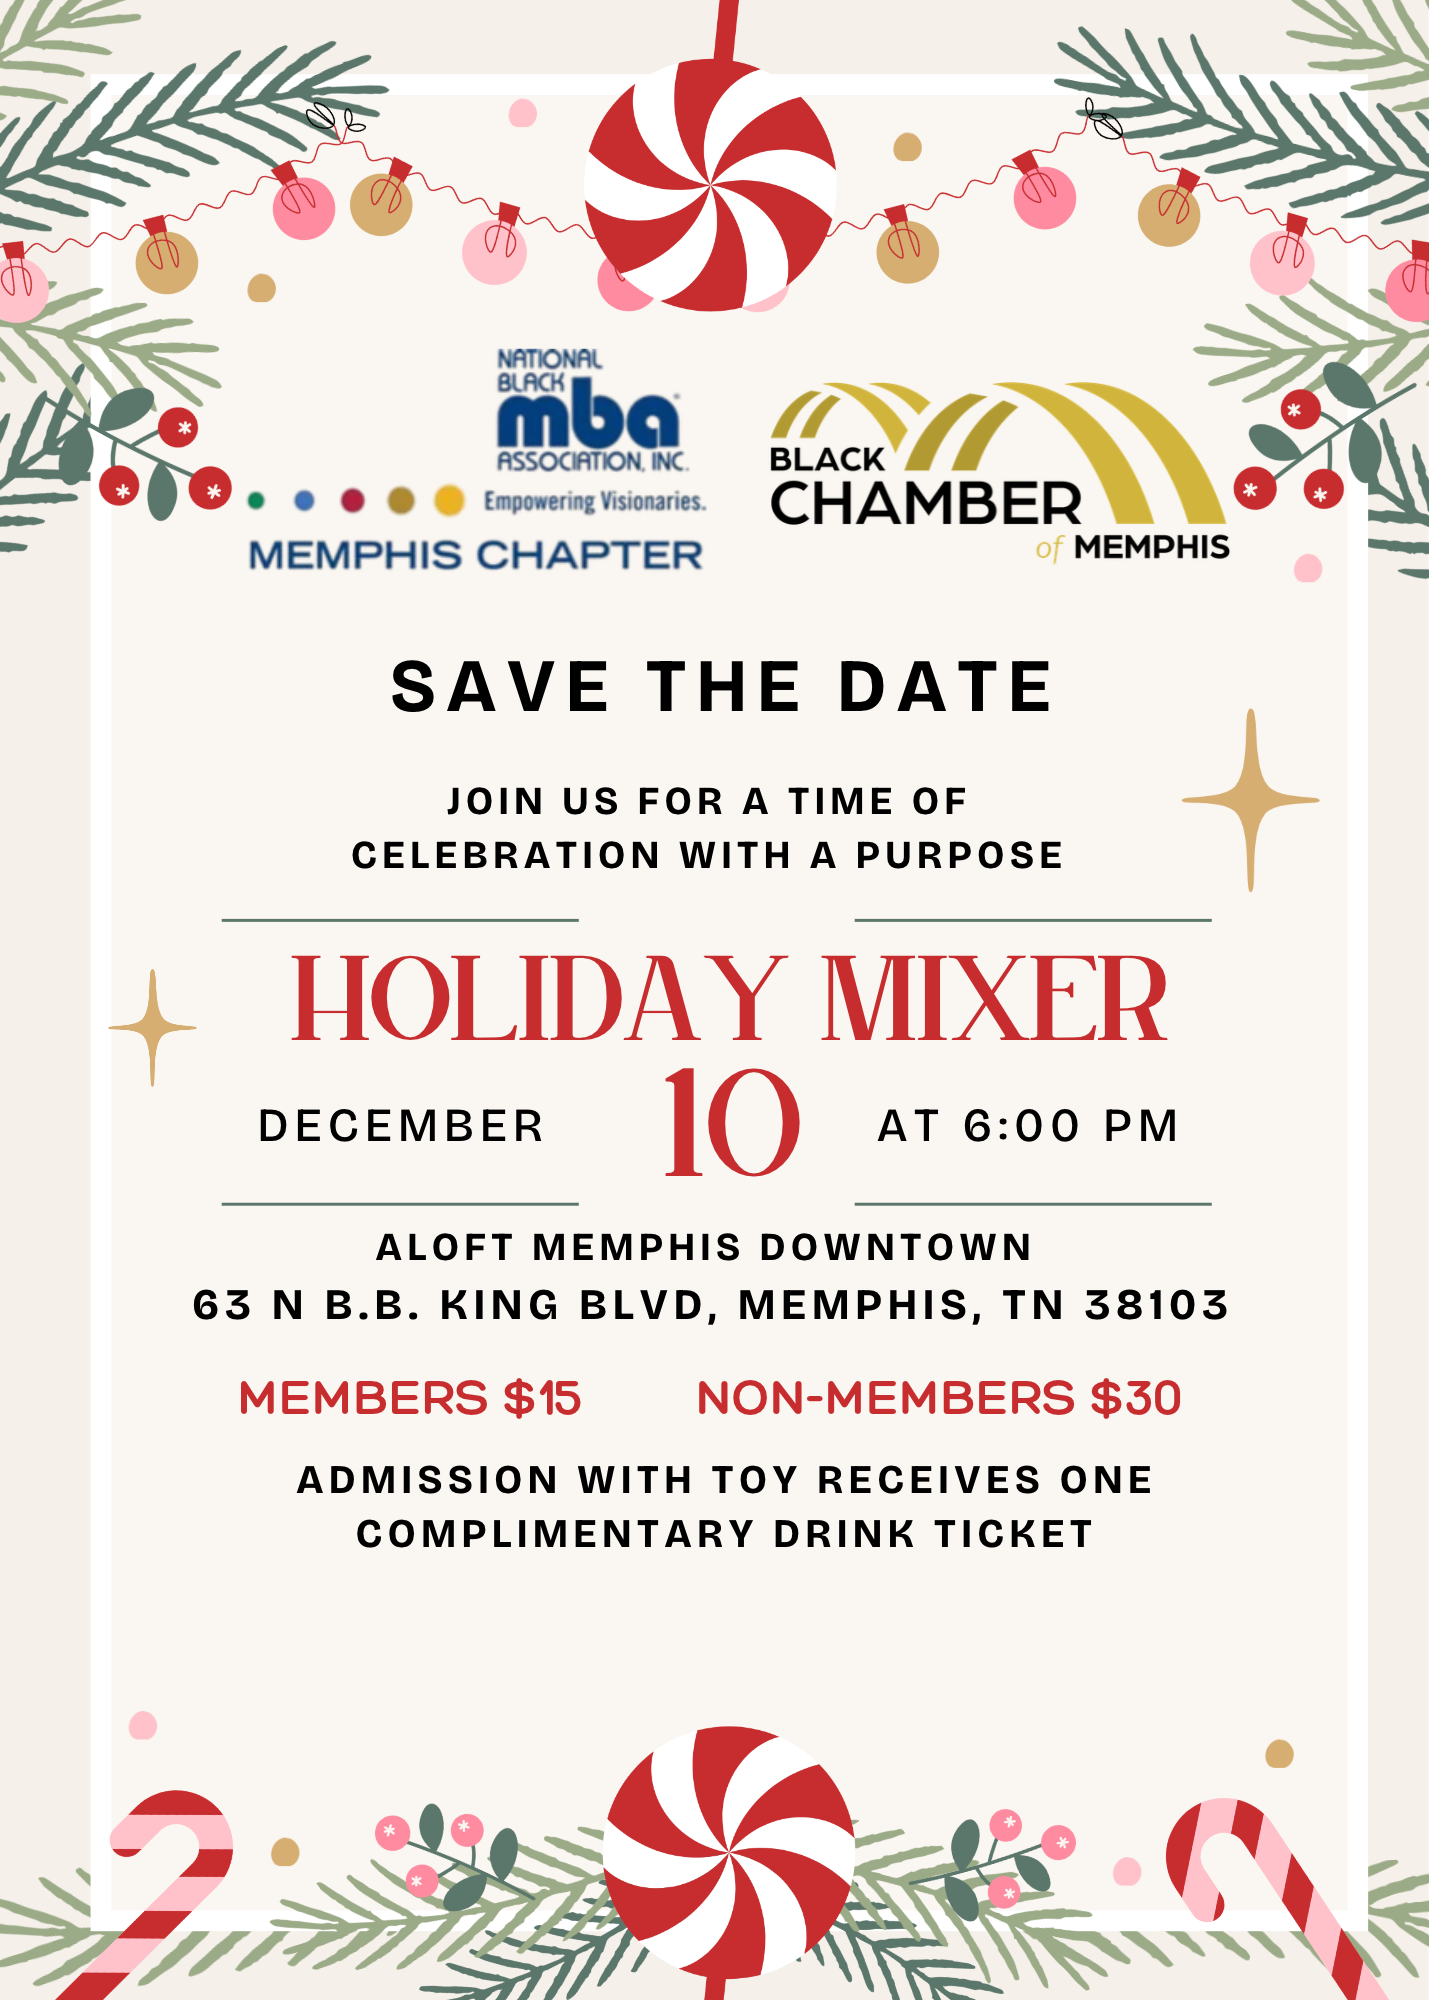
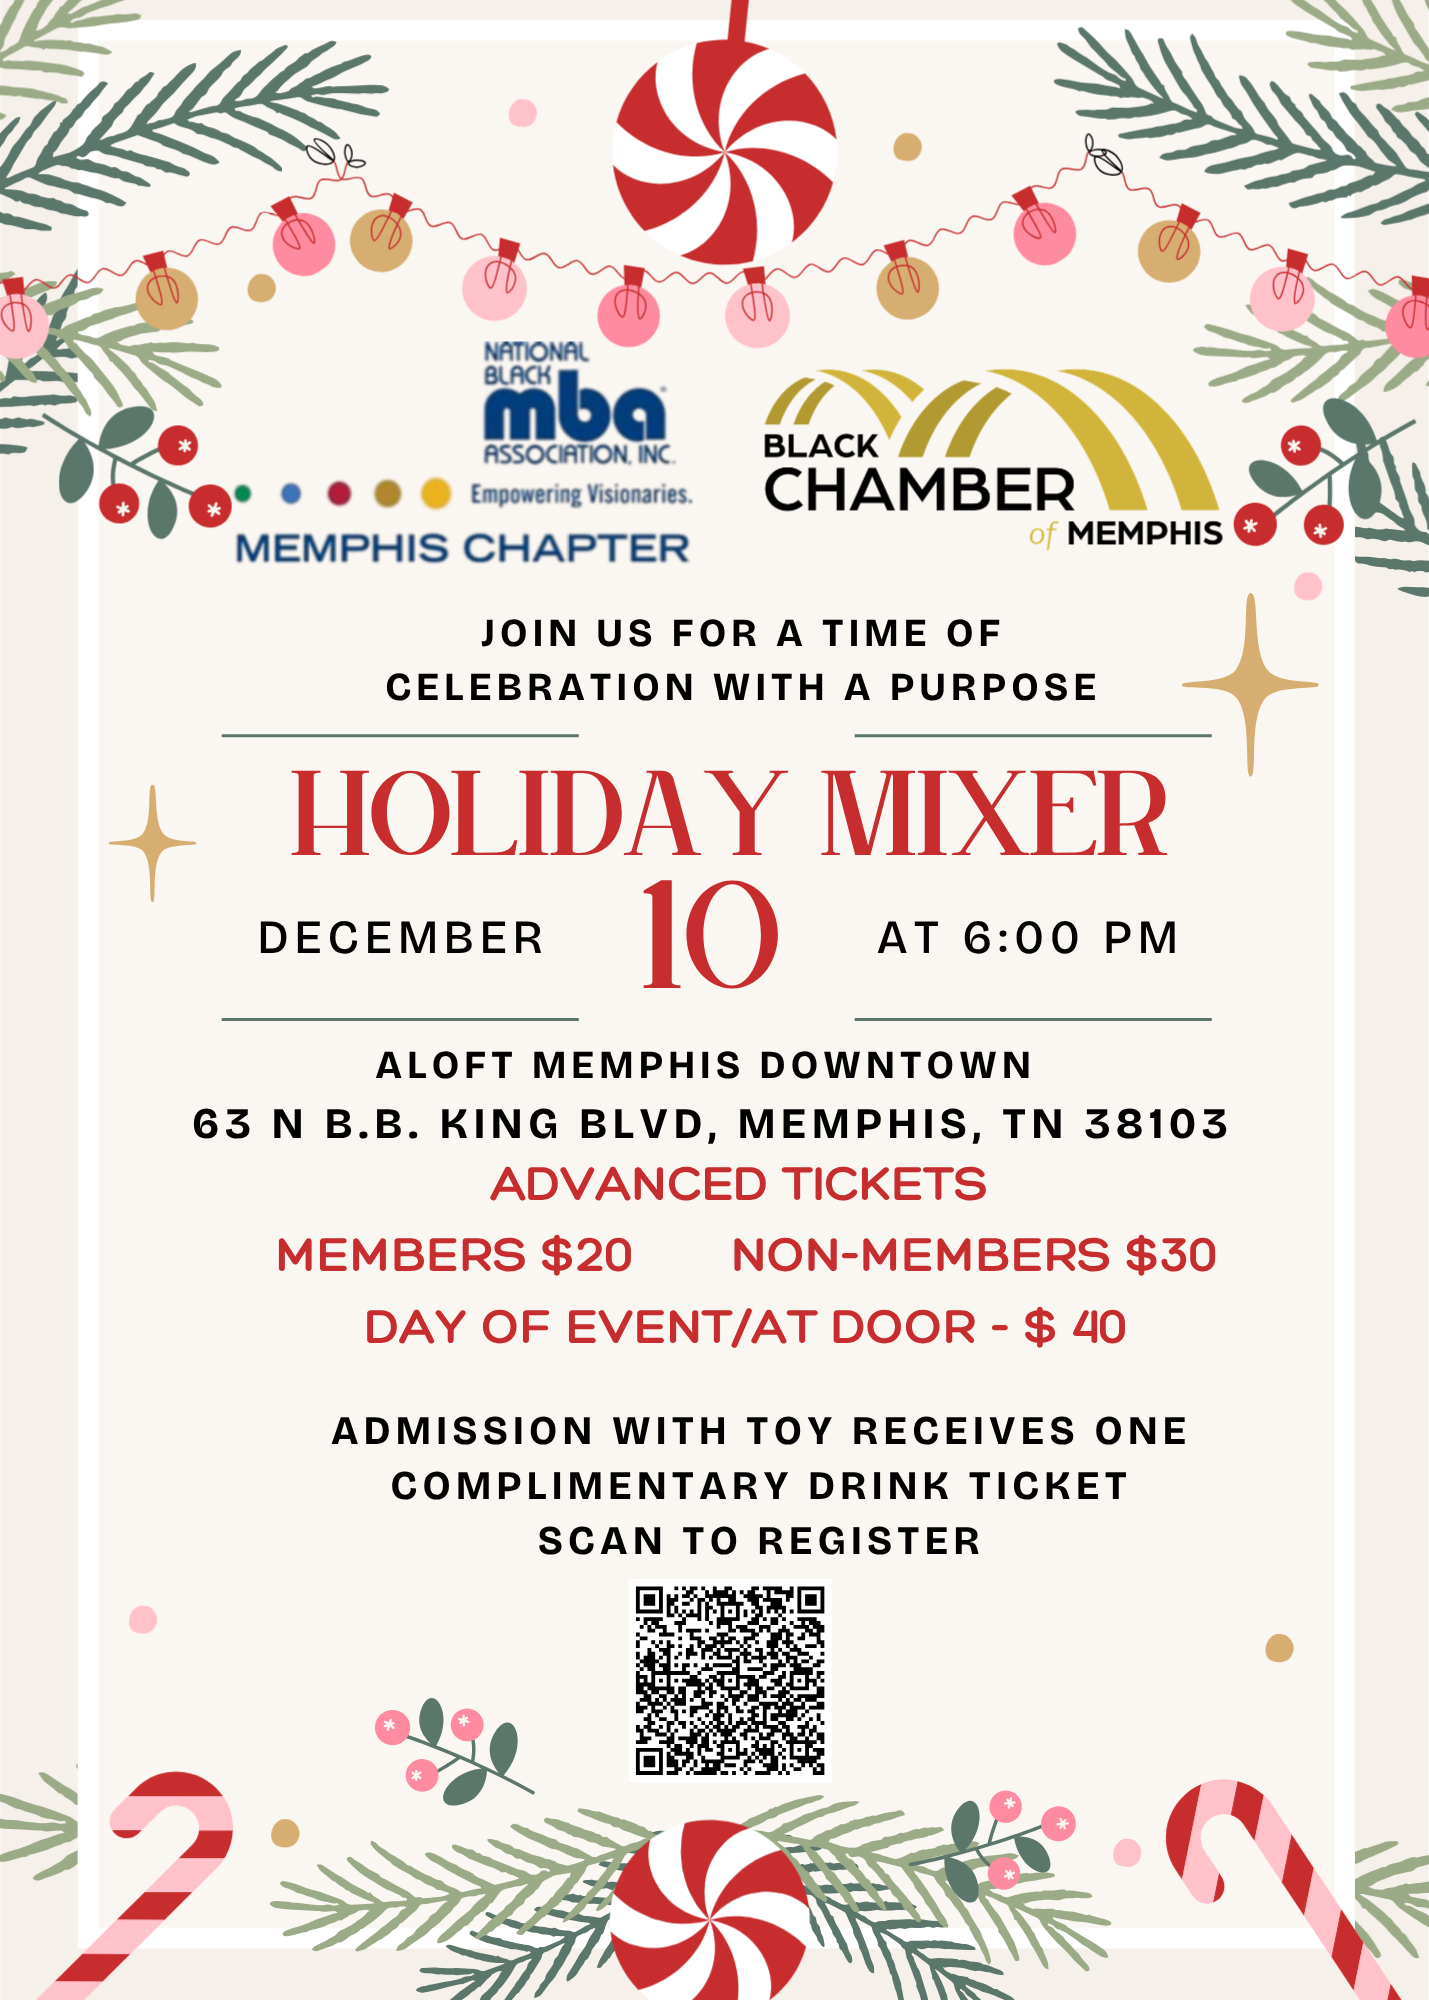
bcom mixer 2026

diff --git a/lib/eventsList/eventsFolder/bcomMixer26.ts b/lib/eventsList/eventsFolder/bcomMixer26.ts
@@ -4,20 +4,23 @@ export const bcomMixer26 : EventListType = {
     holidayStatus: false,
     id : "bcom-holiday-mixer-2026",
     type: 'event',
+    path : "bcom-holiday-mixer-2026",
     eventType : 'quarterly-mixer',
-    eventImage : "/events/Holiday-Mixer-2026.png",
-    eventImageAlt : "BCom Holiday Mixer",
-    eventDate : "December 11, 2026",
-    sortDate : "2026-12-11",
+    eventImage : "/events/holiday-mixer-2026.png",
+    eventImageAlt : "NBMBAA Memphis - 2026 Holiday Mixer with The Black Chamber of Memphis",
+    eventDate : "December 10, 2026",
+    sortDate : "2026-12-10",
     eventTime : "6pm - 9pm",
     eventAddressLink : "",
-    eventAddress : "TBC",
+    eventAddress : "Aloft Memphis Downtown, Memphis, TN",
     eventName : "Black Chamber of Memphis Holiday Mixer",
     eventCaption : '',
     eventHostName : '',
-    eventDescription : "Join the Black Chamber of Memphis, along with its members and partners, for an evening of celebration as we recap our achievements from the year 2026. Enjoy holiday treats while mingling and celebrating with entertainment, delicious food, and special messages and highlights. This holiday event promises to be a delightful experience for everyone!",
-    eventLongDescription: ``,
-    eventCTAbuttonLink : "",
+    eventDescription : "Join us for time of holiday networking and fun at the Holiday Mixer co-hosted by NBMBAA Memphis Chapter and The Black Chamber of Memphis",
+    eventLongDescription: `
+        <p>Join NBMBAA Memphis and The Black Chamber of Memphis as we close out the year for a time of fun, networking, and celebration with a purpose for our 2026 Holiday Mixer. Come with an unwrapped toy, as these donations will support Porter Leath. Admission with a toy includes one complimentary drink ticket.</p>
+        <p>For Members of both organizations, refer any questions to The Black Chamber of Memphis memberservices@bbamemphis.com<br>and<br>National Black MBAA Memphis Chapter (NBMBAA Memphis) - president@nbmbaamemphis.org</p>`,
+    eventCTAbuttonLink : "/events/bcom-holiday-mixer-2026",
     eventCTAbuttonText : "Register today",
     registrationButtonText : "Register Today",
     registrationButtonLink : '',

diff --git a/lib/eventsList/eventIndex.ts b/lib/eventsList/eventIndex.ts
@@ -32,8 +32,10 @@ import { chairmansReception2026 } from "./eventsFolder/chairmansReception2026";
 import { accessToCapital } from "./eventsFolder/accessToCapital";
 import { LocalSEO } from "./eventsFolder/localSEO";
 import { LinkedInContactToCustomer } from "./eventsFolder/linkedInContactToCustomer";
+import { bcomMixer26 } from "./eventsFolder/bcomMixer26";
 
 export const eventIndex = [
+    bcomMixer26,
     LinkedInContactToCustomer,
     LocalSEO,
     accessToCapital,
